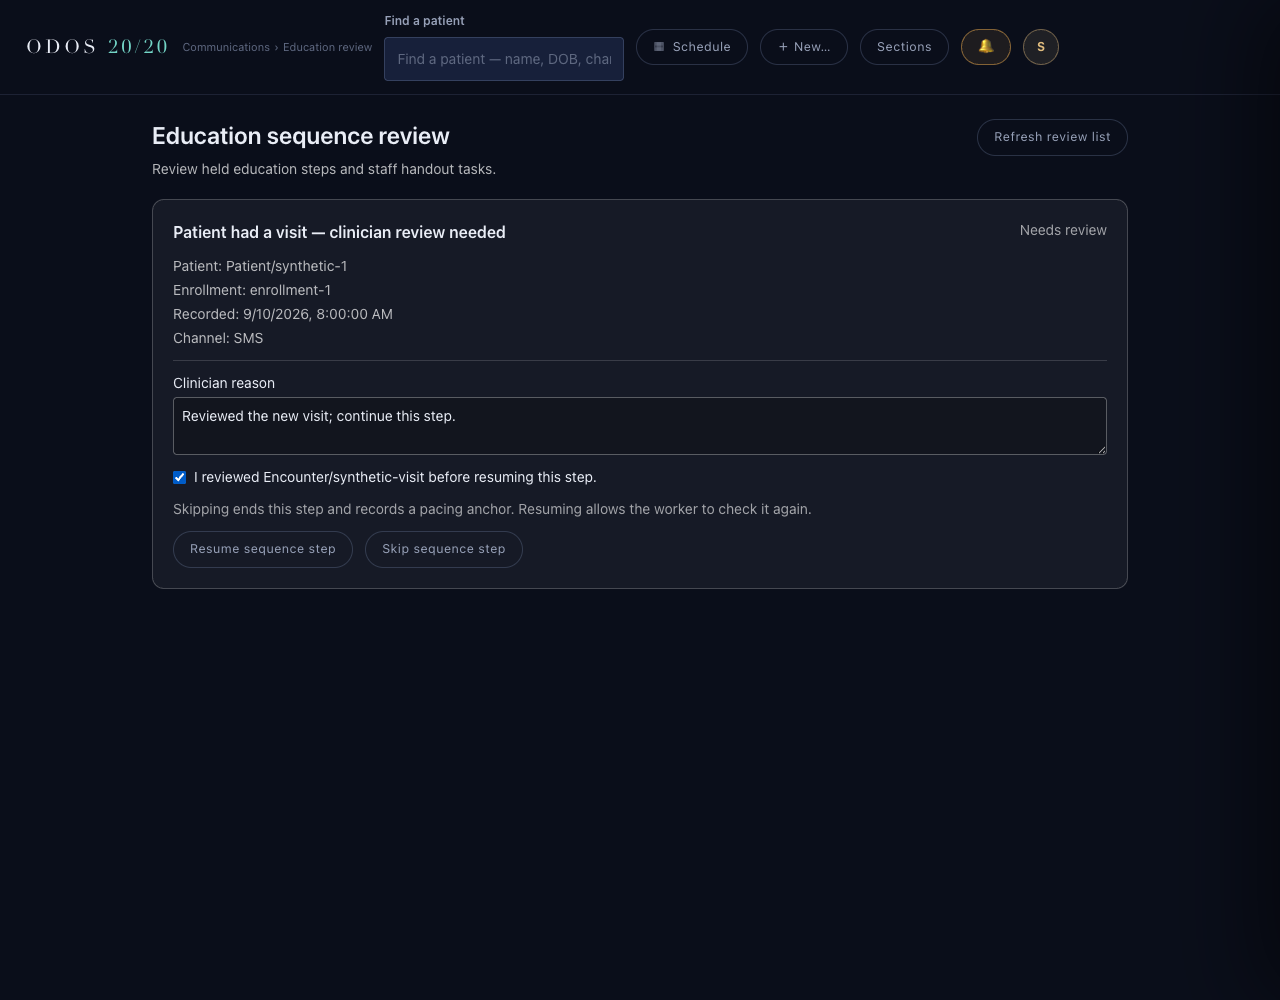
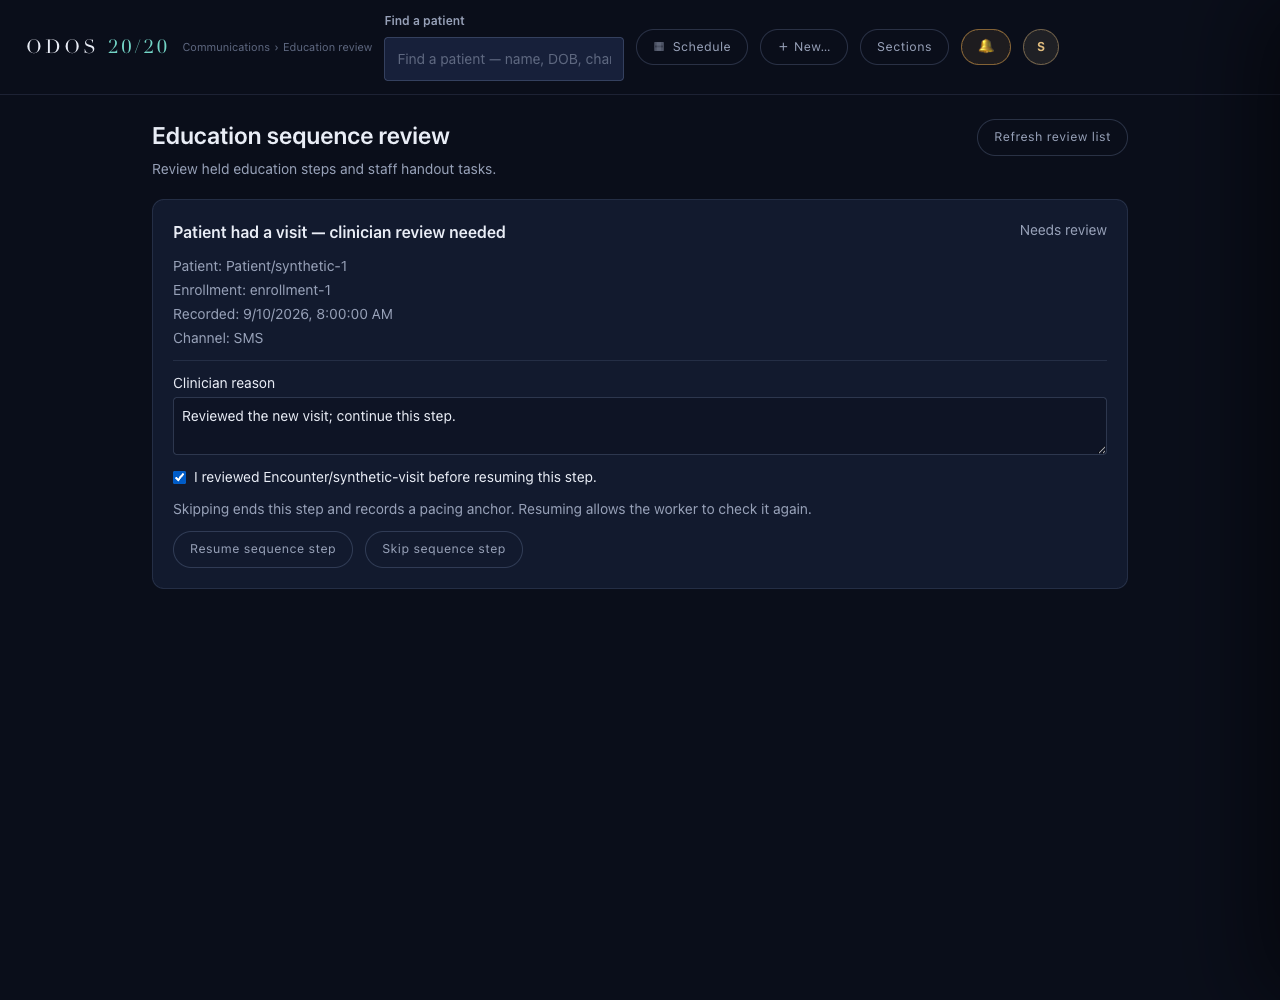
Education review appearance tokens

Changed region(s): [[0.1562, 0.31, 0.1875, 0.341]]

diff --git a/ui/src/scenes/EducationSequenceReview.tsx b/ui/src/scenes/EducationSequenceReview.tsx
@@ -49,15 +49,15 @@ export function EducationSequenceReview({ canReview }: { canReview: boolean }) {
     finally { setBusy(false); }
   }
 
-  return <main className="mx-auto grid max-w-5xl gap-5 p-6" aria-labelledby="education-review-title">
+  return <main className="mx-auto grid max-w-5xl gap-5 p-6 text-[var(--odos-text)]" aria-labelledby="education-review-title">
     <header className="flex flex-wrap items-start justify-between gap-4">
       <div><h1 id="education-review-title" className="text-2xl font-semibold">Education sequence review</h1>
-        <p className="mt-2 text-sm text-white/70">Review held education steps and staff handout tasks.</p></div>
+        <p className="mt-2 text-sm text-[var(--odos-muted)]">Review held education steps and staff handout tasks.</p></div>
       <button className="odos-pill" type="button" disabled={loading || busy} onClick={() => { setStatus(undefined); setRevision(value => value + 1); }}>Refresh review list</button>
     </header>
-    {!canReview && <p className="text-sm text-white/70">Staff can view this list. A clinician must record a skip or resume decision.</p>}
-    {error && <div role="alert" className="rounded border border-red-400/50 p-4 text-red-200">{error} Refresh the review list before taking another action.</div>}
-    {status && <p role="status" className="rounded border border-emerald-400/40 p-4">{status}</p>}
+    {!canReview && <p className="text-sm text-[var(--odos-muted)]">Staff can view this list. A clinician must record a skip or resume decision.</p>}
+    {error && <div role="alert" className="rounded border border-[var(--odos-line-2)] p-4 text-[var(--odos-text)]">{error} Refresh the review list before taking another action.</div>}
+    {status && <p role="status" className="rounded border border-[var(--odos-accent-border)] p-4">{status}</p>}
     {loading ? <p role="status">Loading education review…</p> : items.length === 0 && !error ? <p>No education steps need review.</p> :
       items.map(item => <ReviewItem key={`${revision}:${item.id}`} item={item} canReview={canReview} disabled={busy || Boolean(error)} onReview={review} />)}
   </main>;
@@ -73,22 +73,22 @@ function ReviewItem({ item, canReview, disabled, onReview }: {
   const [reviewedEncounter, setReviewedEncounter] = useState(false);
   const actions = canReview && item.state === "open" && item.rowId && item.expectedVersion ? item.allowedActions ?? [] : [];
   const seen = item.holdReason === "patient-seen";
-  return <article className="grid gap-3 rounded-xl border border-white/20 bg-white/5 p-5" aria-label={`Education review ${item.id}`}>
-    <div className="flex flex-wrap justify-between gap-2"><h2 className="font-semibold">{item.channel === "print" ? "Staff handout task" : seen ? reasonLabels["patient-seen"] : reasonLabels[item.reason] ?? item.reason.replaceAll("-", " ")}</h2><span className="text-sm text-white/60">{item.state === "settled" ? "Review settled" : "Needs review"}</span></div>
-    <dl className="grid gap-1 text-sm text-white/70">
+  return <article className="grid gap-3 rounded-xl border border-[var(--odos-line)] bg-[var(--odos-surface)] p-5" aria-label={`Education review ${item.id}`}>
+    <div className="flex flex-wrap justify-between gap-2"><h2 className="font-semibold">{item.channel === "print" ? "Staff handout task" : seen ? reasonLabels["patient-seen"] : reasonLabels[item.reason] ?? item.reason.replaceAll("-", " ")}</h2><span className="text-sm text-[var(--odos-muted)]">{item.state === "settled" ? "Review settled" : "Needs review"}</span></div>
+    <dl className="grid gap-1 text-sm text-[var(--odos-muted)]">
       {item.patientReference && <div><dt className="inline">Patient: </dt><dd className="inline">{item.patientReference}</dd></div>}
       <div><dt className="inline">Enrollment: </dt><dd className="inline">{item.enrollmentId}</dd></div>
       <div><dt className="inline">Recorded: </dt><dd className="inline"><time dateTime={item.at}>{new Date(item.at).toLocaleString()}</time></dd></div>
       {item.channel && <div><dt className="inline">Channel: </dt><dd className="inline">{item.channel === "print" ? "Staff handout" : item.channel.toUpperCase()}</dd></div>}
     </dl>
     {item.channel === "print" && <p className="text-sm">Prepare the handout for staff delivery. This page does not send it electronically or mark it delivered.</p>}
-    {["provider-outcome-unknown", "deferral-proof-unavailable", "acceptance-time-unavailable"].includes(item.reason) && <p className="text-sm text-amber-200">An earlier attempt may have reached the patient. Acknowledgement or skipping does not confirm delivery.</p>}
-    {actions.length > 0 ? <div className="grid gap-3 border-t border-white/15 pt-3">
-      <label className="grid gap-1 text-sm">Clinician reason<textarea aria-label="Clinician reason" className="rounded border border-white/30 bg-black/20 p-2" value={reason} onChange={event => setReason(event.target.value)} disabled={disabled} rows={2} /></label>
+    {["provider-outcome-unknown", "deferral-proof-unavailable", "acceptance-time-unavailable"].includes(item.reason) && <p className="text-sm text-[var(--odos-text)]">An earlier attempt may have reached the patient. Acknowledgement or skipping does not confirm delivery.</p>}
+    {actions.length > 0 ? <div className="grid gap-3 border-t border-[var(--odos-line)] pt-3">
+      <label className="grid gap-1 text-sm">Clinician reason<textarea aria-label="Clinician reason" className="rounded border border-[var(--odos-line-2)] bg-[var(--odos-deep-surface)] p-2" value={reason} onChange={event => setReason(event.target.value)} disabled={disabled} rows={2} /></label>
       {seen && actions.includes("resume") && (item.encounterReference ? <label className="flex items-center gap-2 text-sm"><input type="checkbox" checked={reviewedEncounter} disabled={disabled} onChange={event => setReviewedEncounter(event.target.checked)} />I reviewed {item.encounterReference} before resuming this step.</label> : <p className="text-sm">The visit reference is unavailable. Refresh the list before resuming.</p>)}
-      <p className="text-sm text-white/60">Skipping ends this step and records a pacing anchor. Resuming allows the worker to check it again.</p>
+      <p className="text-sm text-[var(--odos-muted)]">Skipping ends this step and records a pacing anchor. Resuming allows the worker to check it again.</p>
       <div className="flex flex-wrap gap-3">{actions.map(action => <button key={action} type="button" className="odos-pill" disabled={disabled || !reason.trim() || (action === "resume" && seen && (!item.encounterReference || !reviewedEncounter))} onClick={() => void onReview(item, action, reason, reviewedEncounter)}>{action === "skip" ? "Skip sequence step" : "Resume sequence step"}</button>)}</div>
-    </div> : item.state === "open" && <p className="text-sm text-white/60">{canReview ? "No review action is currently available for this item." : "Awaiting clinician review."}</p>}
+    </div> : item.state === "open" && <p className="text-sm text-[var(--odos-muted)]">{canReview ? "No review action is currently available for this item." : "Awaiting clinician review."}</p>}
   </article>;
 }
 
